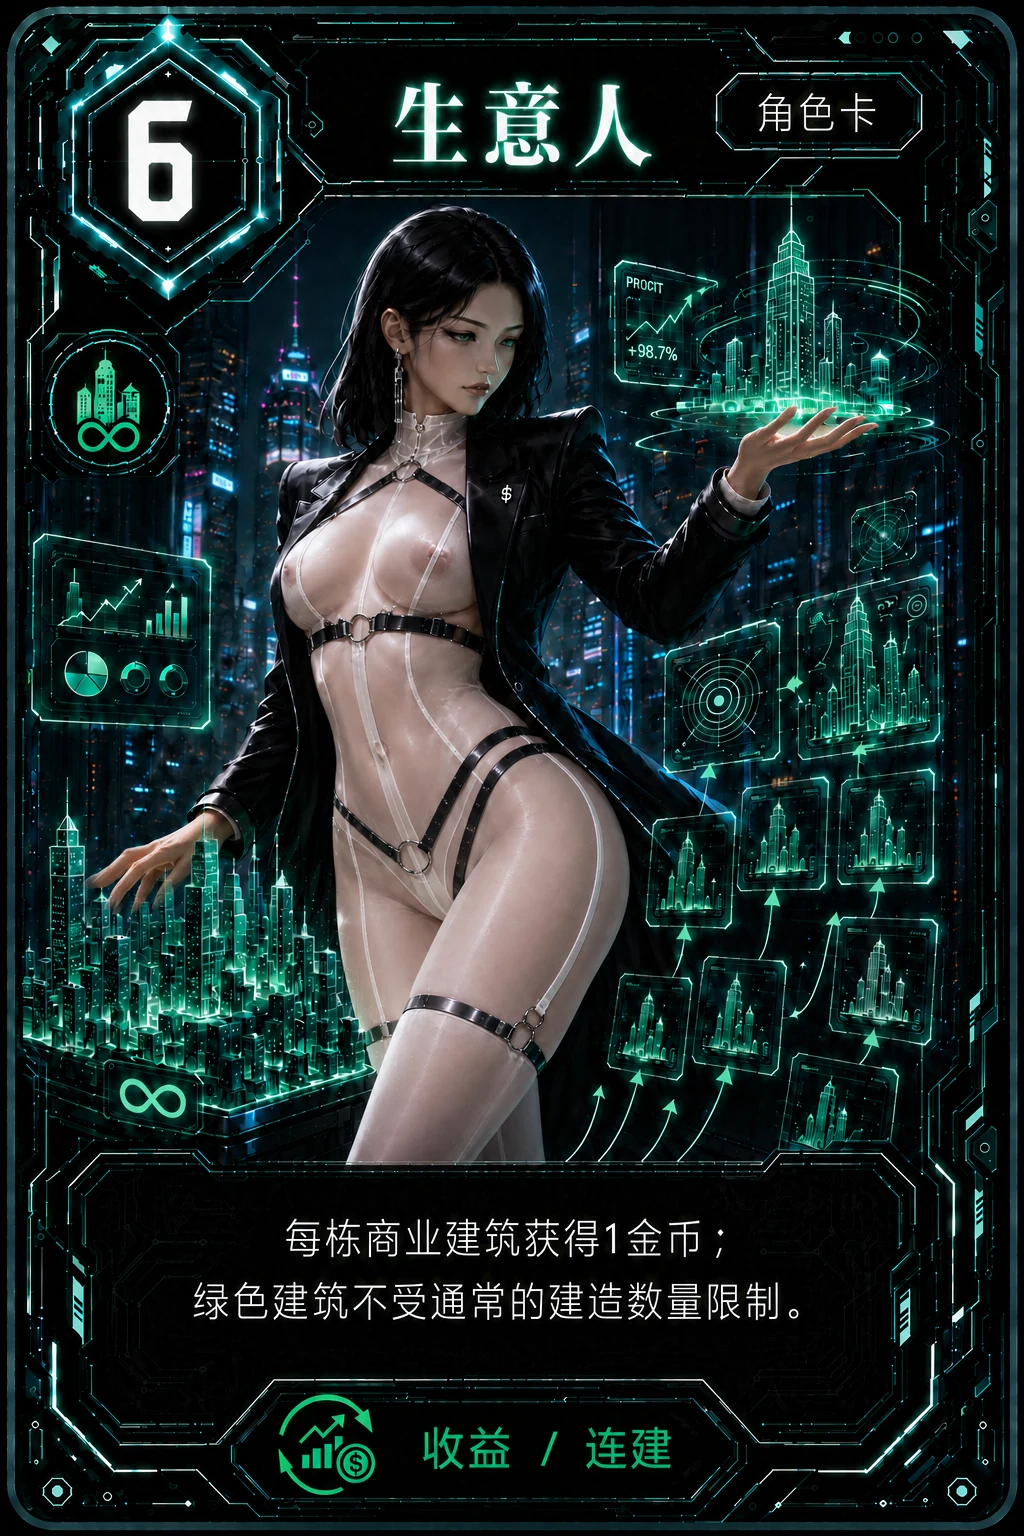
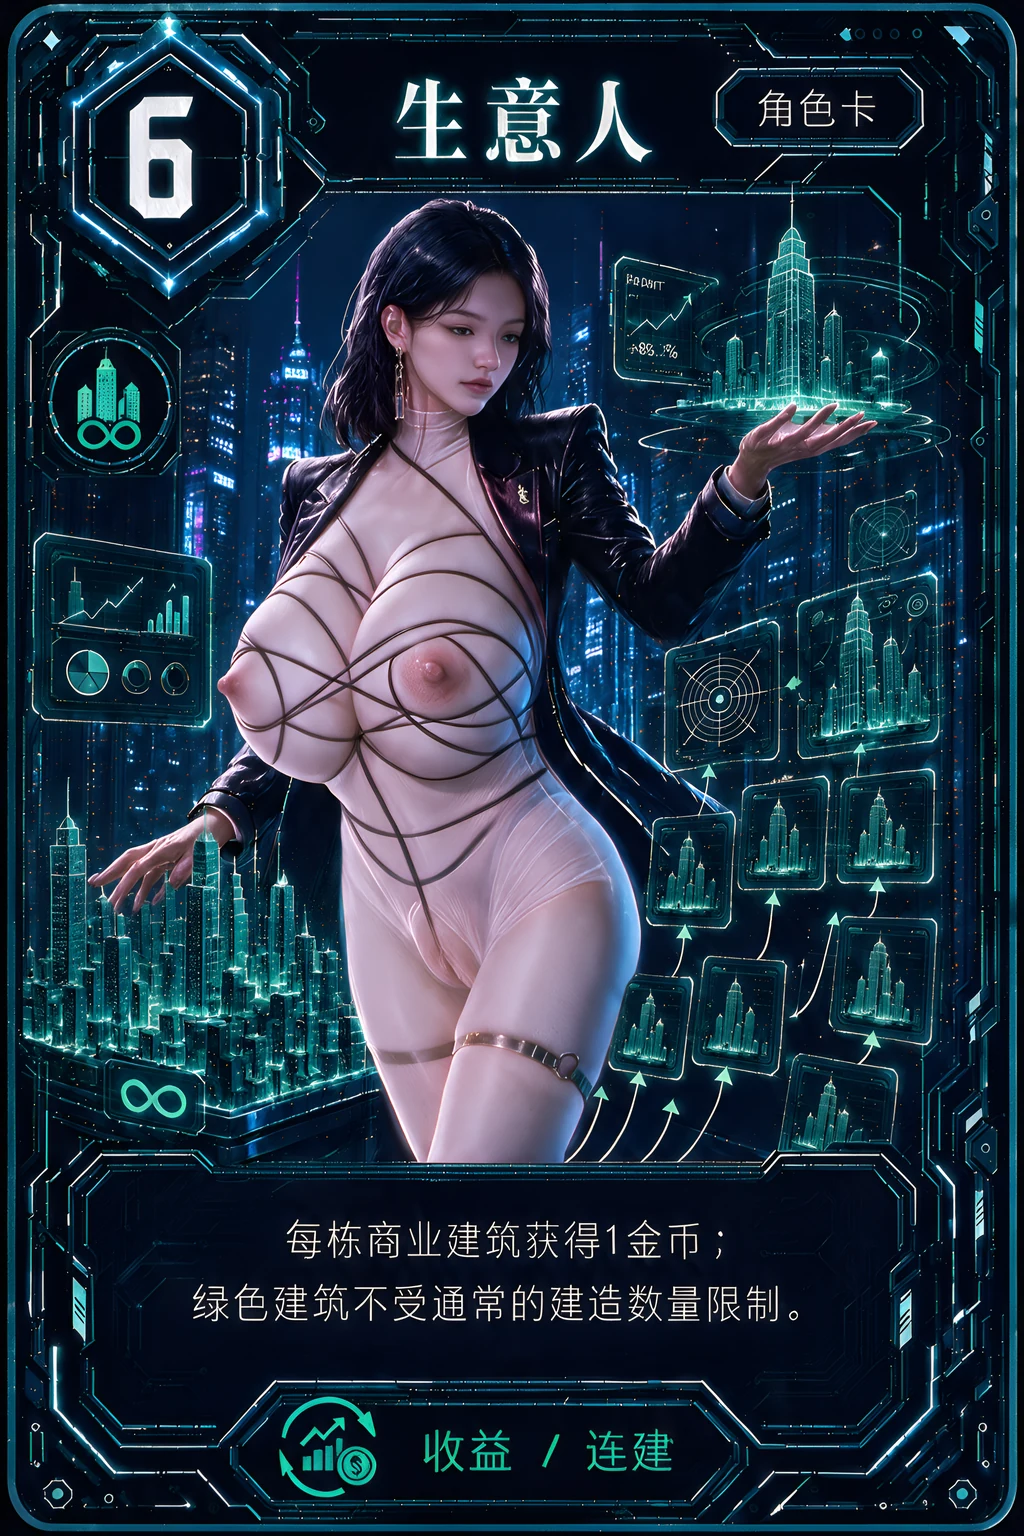
feat(theme): 更新生意人角色卡立绘

diff --git a/public/themes/neon/manifest.js b/public/themes/neon/manifest.js
@@ -22,11 +22,11 @@
   ];
 
   function variants(folder, key) {
-    // 墓地卡图曾把建造费用 5 错印成能力支付费用 1，勒索者、法师和主教卡图已更新，
+    // 墓地卡图曾把建造费用 5 错印成能力支付费用 1，勒索者、法师、主教和生意人卡图已更新，
     // 魔术师恢复为原卡图；
     // 单独版本化，让已安装 PWA 绕过旧图片的 HTTP / Service Worker 缓存。
     const versioned = (folder === 'districts' && key === 'graveyard') ||
-      (folder === 'roles' && (key === 'blackmailer' || key === 'magician' || key === 'wizard' || key === 'bishop' || key === 'spy'));
+      (folder === 'roles' && (key === 'blackmailer' || key === 'magician' || key === 'wizard' || key === 'bishop' || key === 'spy' || key === 'businessman'));
     const version = folder === 'roles' && key === 'magician'
       ? '?v=3'
       : (folder === 'roles' && key === 'bishop'
